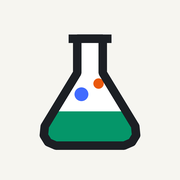
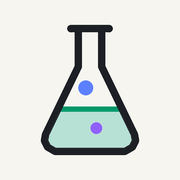
허브: 파비콘을 헤더 플라스크로 교체, 새 파일명으로 캐시 우회

Changed region(s): [[0.1944, 0.1111, 0.8056, 0.8889], [0.6389, 0.4722, 0.6667, 0.5278], [0.3333, 0.4722, 0.3611, 0.5278]]

diff --git a/index.html b/index.html
@@ -19,9 +19,9 @@
   <meta name="twitter:title" content="올립의 실험실">
   <meta name="twitter:description" content="교육 서비스를 기획하며 직접 만든 사내 도구 · 서비스 목업 · 공개 페이지 모음">
   <meta name="twitter:image" content="https://obkim-lgtm.github.io/hub/og.png?v=1">
-  <link rel="icon" type="image/svg+xml" href="favicon.svg?v=2">
-  <link rel="icon" type="image/png" sizes="32x32" href="favicon-32.png?v=2">
-  <link rel="apple-touch-icon" href="apple-touch-icon.png?v=2">
+  <link rel="icon" type="image/svg+xml" href="favicon-lab.svg?v=3">
+  <link rel="icon" type="image/png" sizes="32x32" href="favicon-lab-32.png?v=3">
+  <link rel="apple-touch-icon" href="apple-touch-icon.png?v=3">
   <link rel="preconnect" href="https://cdn.jsdelivr.net">
   <link rel="stylesheet" href="https://cdn.jsdelivr.net/gh/orioncactus/pretendard@v1.3.9/dist/web/static/pretendard.min.css">
   <link rel="preconnect" href="https://fonts.googleapis.com">

diff --git a/tools/make_og.py b/tools/make_og.py
@@ -112,31 +112,33 @@ def og(path):
 
 
 def icon(size, path, background):
+    """헤더 플라스크(viewBox -12 -2 136 136)를 정사각 아이콘으로."""
     S = 8
-    N = 32
-    px = size * S / N
-    img = Image.new("RGBA", (size * S, size * S), PAPER + (255,) if background else (0, 0, 0, 0))
+    W = size * S
+    img = Image.new("RGBA", (W, W), PAPER + (255,) if background else (0, 0, 0, 0))
     d = ImageDraw.Draw(img, "RGBA")
-    pad = 0.12 if background else 0
-    k = px * (1 - 2 * pad)
-    off = size * S * pad
-    P = lambda pts: [(off + x * k, off + y * k) for x, y in pts]
-    body = [(13, 4), (13, 12), (5.4, 24.5), (5.2, 26.6), (6.2, 28.2), (8, 29),
-            (24, 29), (25.8, 28.2), (26.8, 26.6), (26.6, 24.5), (19, 12), (19, 4)]
-    d.polygon(P(body), fill=(255, 255, 255))
-    liquid = [(8.6, 21), (23.4, 21), (26.6, 24.5), (26.8, 26.6), (25.8, 28.2), (24, 29),
-              (8, 29), (6.2, 28.2), (5.2, 26.6), (5.4, 24.5)]
-    d.polygon(P(liquid), fill=GREEN)
-    for cx, cy, r, col in [(14, 17, 1.6, BLUE), (18, 14.5, 1.2, ORANGE)]:
-        d.ellipse([off + (cx - r) * k, off + (cy - r) * k, off + (cx + r) * k, off + (cy + r) * k], fill=col)
-    d.line(P(body + [body[0]]), fill=INK, width=max(1, int(2 * k)), joint="curve")
-    d.line(P([(11, 4), (21, 4)]), fill=INK, width=max(1, int(2 * k)))
+    pad = 0.10 if background else 0.0
+    k = W * (1 - 2 * pad) / 136
+    off = W * pad
+    P = lambda pts: [(off + (x + 12) * k, off + (y + 2) * k) for x, y in pts]
+    d.polygon(P(liquid_poly()), fill=GREEN + (72,))
+    d.line(P([(25.6, 84), (86.4, 84)]), fill=GREEN, width=max(1, int(5 * k)))
+    for cx, cy, r, col in [(52, 64, 7, BLUE), (62, 102, 5.5, PURPLE)]:
+        (x0, y0), (x1, y1) = P([(cx - r, cy - r), (cx + r, cy + r)])
+        d.ellipse([x0, y0, x1, y1], fill=col + (217,))
+    d.line(P(flask_outline()), fill=INK, width=max(1, int(7 * k)), joint="curve")
+    d.line(P([(38, 8), (74, 8)]), fill=INK, width=max(1, int(7 * k)))
+    for ax, ay in [(38, 8), (74, 8)]:
+        (cx, cy), = P([(ax, ay)])
+        rr = 3.5 * k
+        d.ellipse([cx - rr, cy - rr, cx + rr, cy + rr], fill=INK)
     img = img.resize((size, size), Image.LANCZOS)
     img.save(path, optimize=True)
 
 
 if __name__ == "__main__":
     og(os.path.join(HUB, "og.png"))
+    icon(32, os.path.join(HUB, "favicon-lab-32.png"), background=False)
     icon(32, os.path.join(HUB, "favicon-32.png"), background=False)
     icon(180, os.path.join(HUB, "apple-touch-icon.png"), background=True)
     print("og.png · favicon-32.png · apple-touch-icon.png 생성")
